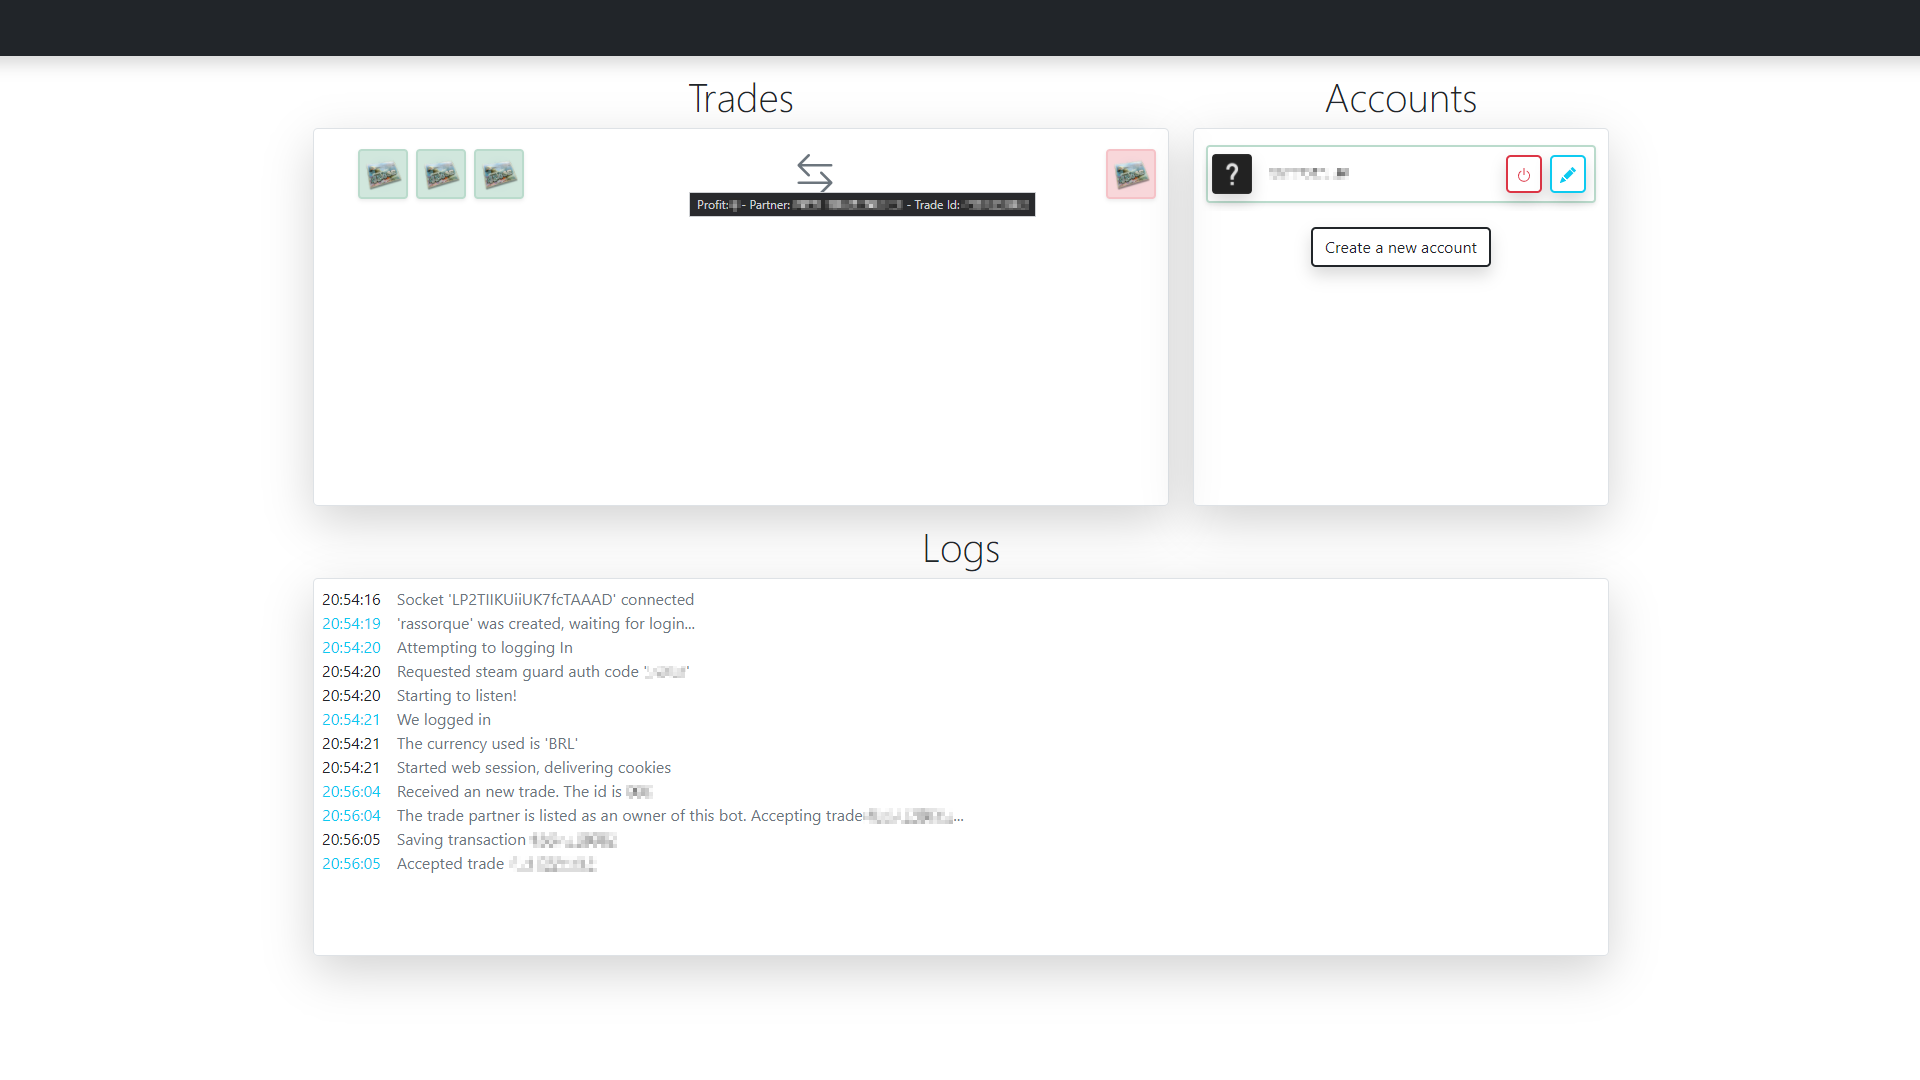
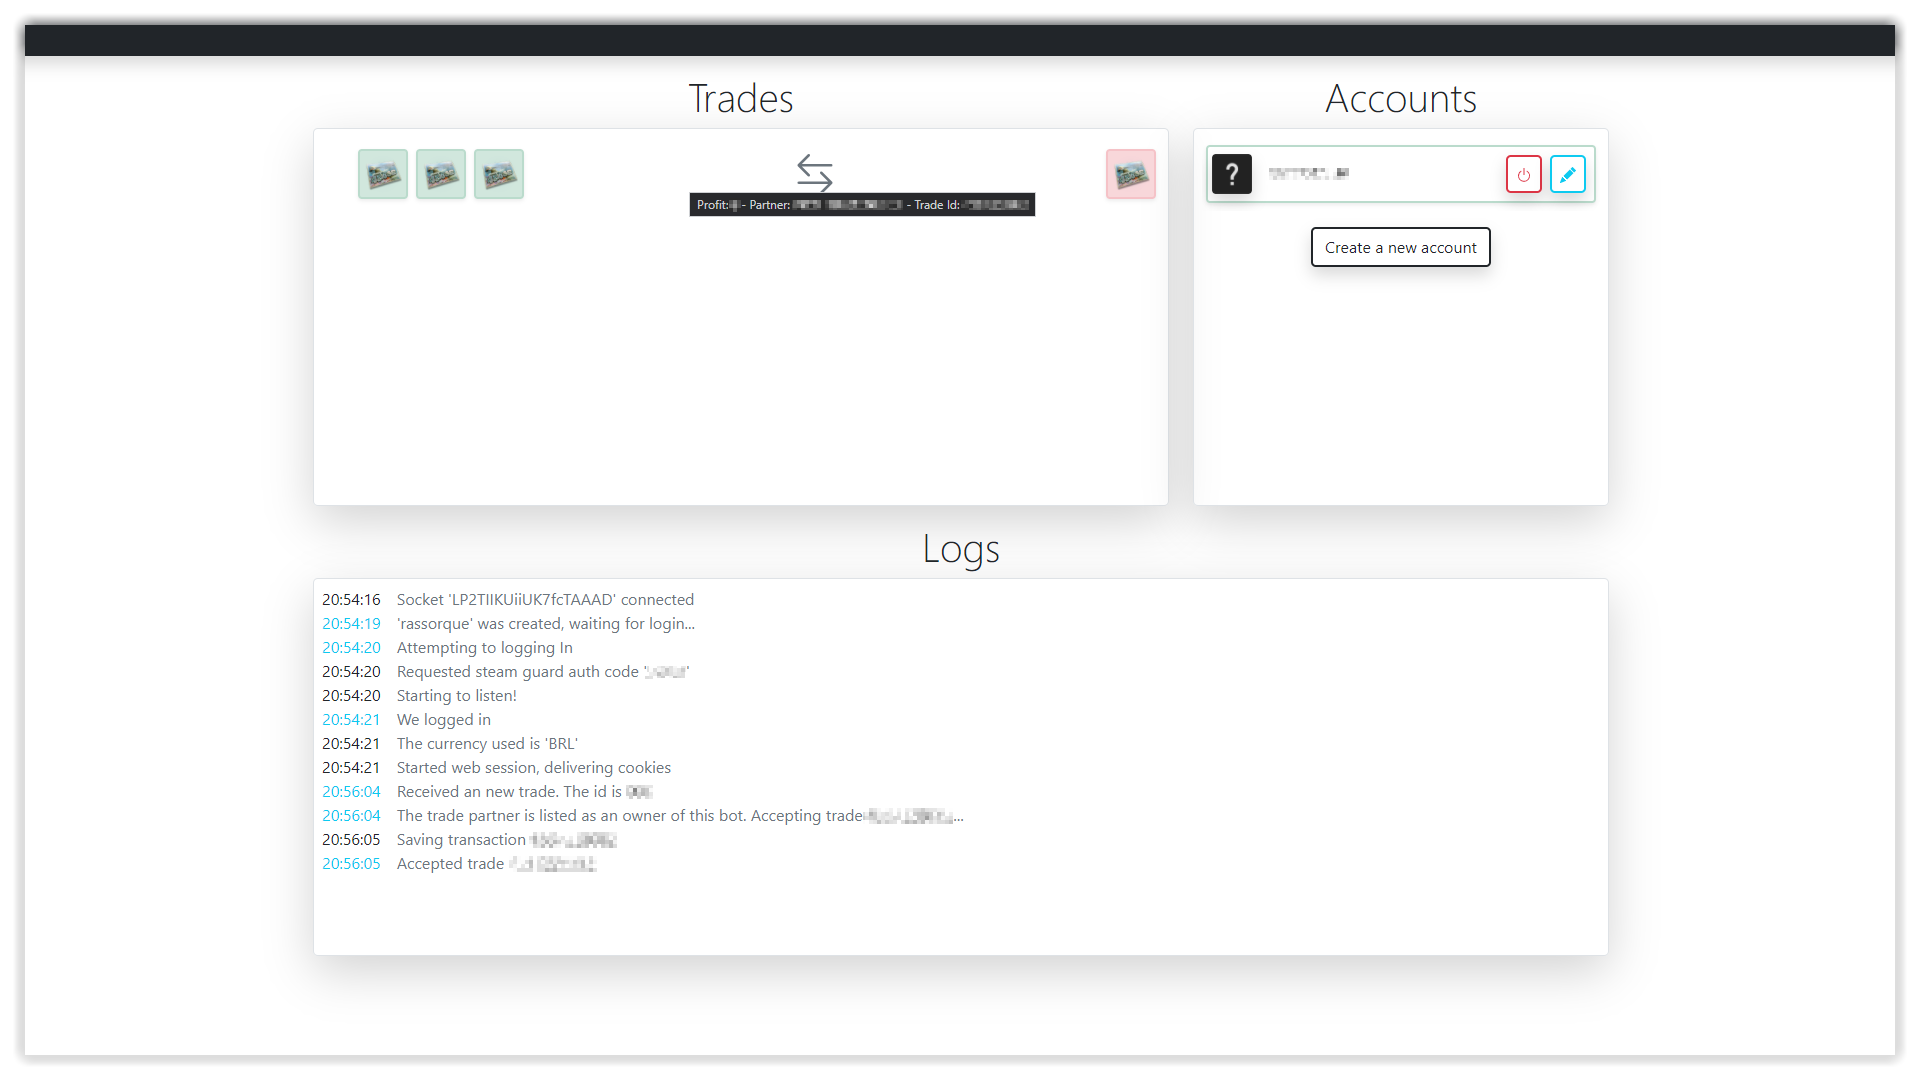
border shadow and page link through the header

Changed region(s): [[0.0, 0.0917, 1.0, 1.0], [0.0, 0.0, 1.0, 0.0611]]

diff --git a/web/src/header.tsx b/web/src/header.tsx
@@ -1,15 +1,20 @@
-import { Github } from 'react-bootstrap-icons';
+import { Github, JournalRichtext } from 'react-bootstrap-icons';
 import { IconButton } from './components/button';
-import { GIT_URL } from './constants';
+import { GIT_URL, PAGE_URL } from './constants';
 
 export default function Header() {
   return (
     <header id="header" className="shadow">
       <nav className="navbar navbar-expand navbar-dark bg-dark px-4 justify-content-between">
         <div className="navbar-brand">Steam Trader</div>
-        <a href={GIT_URL} target="_blank">
-          <IconButton icon={Github} color="light" classes="border-0 p-1" iconProps={{ size: '32' }} />
-        </a>
+        <div>
+          <a className="me-3" href={PAGE_URL} target="_blank">
+            <IconButton icon={JournalRichtext} color="light" classes="border-0 p-1" iconProps={{ size: '32' }} />
+          </a>
+          <a href={GIT_URL} target="_blank">
+            <IconButton icon={Github} color="light" classes="border-0 p-1" iconProps={{ size: '32' }} />
+          </a>
+        </div>
       </nav>
     </header>
   );

diff --git a/web/src/constants.ts b/web/src/constants.ts
@@ -1,1 +1,2 @@
 export const GIT_URL = 'https://github.com/ArthurFiorette/steam-trader#readme';
+export const PAGE_URL = 'https://arthurfiorette.com.br/steam-trader';

diff --git a/README.md b/README.md
@@ -29,8 +29,7 @@
 
 <p align="center">
   <img src="https://raw.githubusercontent.com/ArthurFiorette/steam-trader/main/.github/assets/webpage.png"
-        alt="Web panel empty"
-        width="720px" />
+        alt="Web panel empty" />
 </p>
 
 ## About
